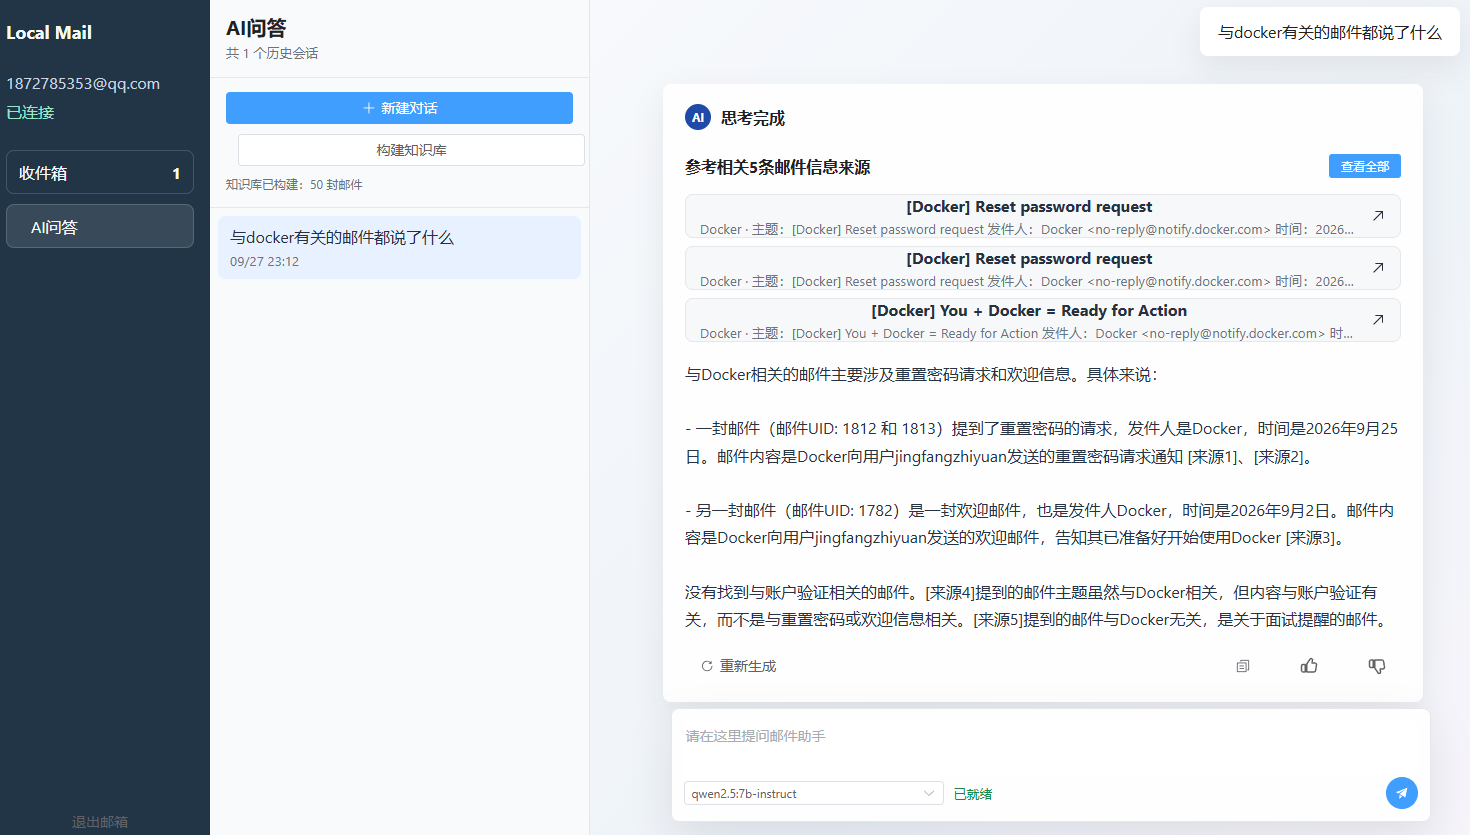
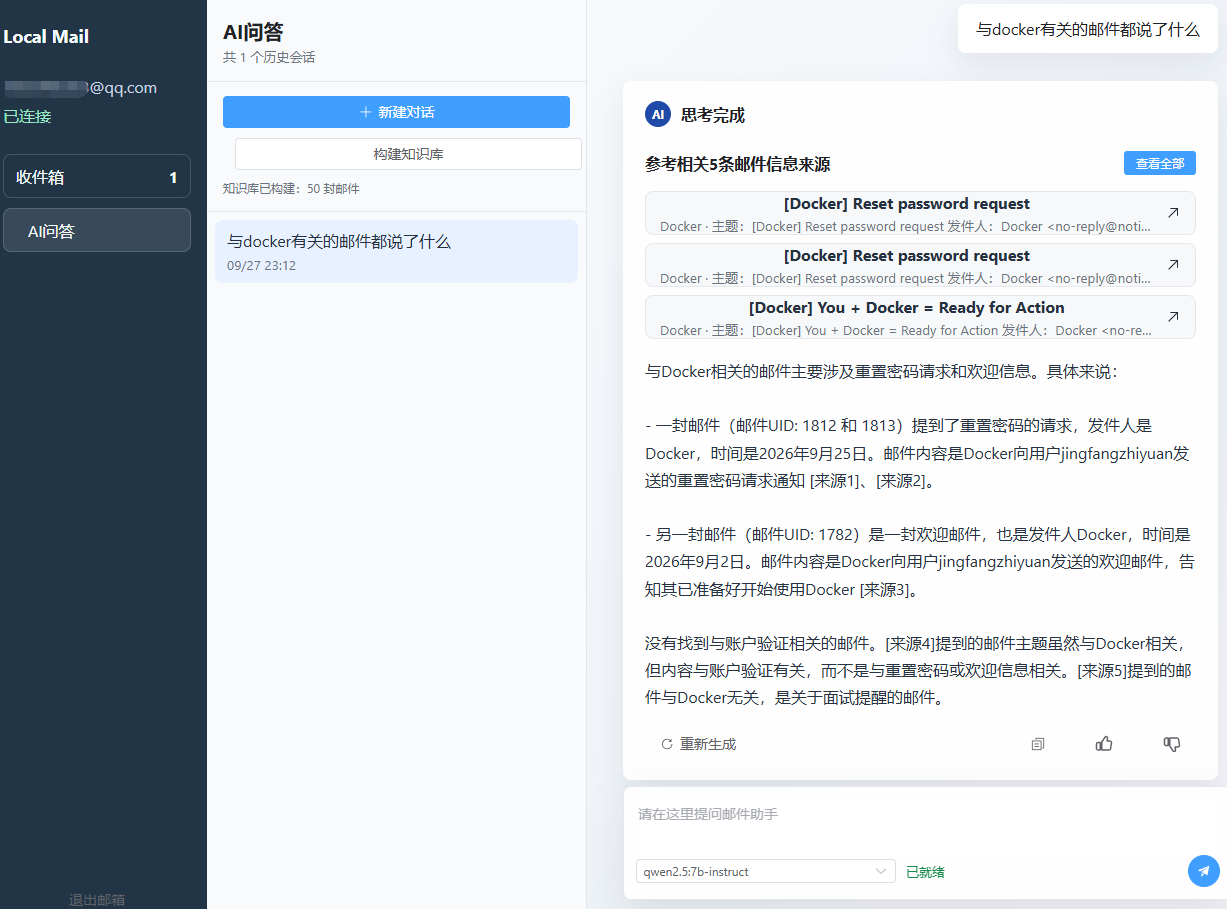
README修改图片排版

diff --git a/README.md b/README.md
@@ -4,14 +4,19 @@
 
 ## 功能范围
 - 只支持单个 `@qq.com` 邮箱账号。
-![登录页面](images/login.png)
-- 只读取“收件箱”，首次加载最近 30 封邮件，支持加载更早邮件和手动刷新。
-![收件箱](images/mail_inbox.png)
+
+  ![登录页面](images/login.png)
+
+- 只读取”收件箱”，首次加载最近 30 封邮件，支持加载更早邮件和手动刷新。
+
+  ![收件箱](images/mail_inbox.png)
+
 - 点击邮件后用 `BODY.PEEK` 读取正文，不修改服务器上的已读状态。
 - 支持纯文本、HTML 和常见 multipart 邮件。
 - HTML 正文经 DOMPurify 清理后放入无脚本权限的 sandbox iframe。
 - AI 问答支持通过本机 Ollama 调用 `qwen2.5:7b-instruct` 进行多轮对话。
-![AI问答](images/AI_QA.png)
+
+  ![AI问答](images/AI_QA.png)
 - 邮件知识库支持索引最近 50 封收件箱邮件，使用 `bge-m3:latest` embedding、Chroma 向量库和 SQLite FTS5 BM25 多路召回，并在检索前做查询规范化、关键词抽取、实体扩写和轻量指代改写，召回后通过 RRF + 规则重排序筛选引用。
 - 不支持发信、SMTP、搜索、删除、移动、附件下载、多账号和离线缓存。
 
